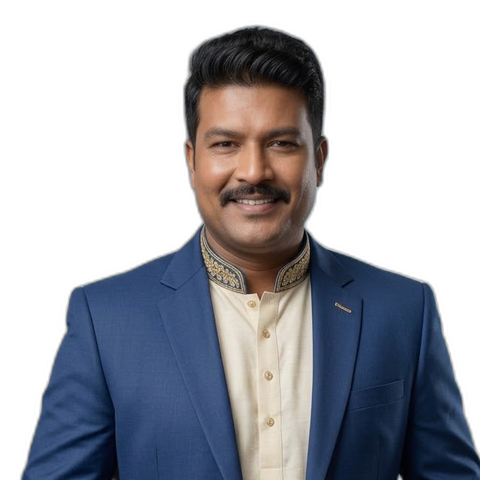
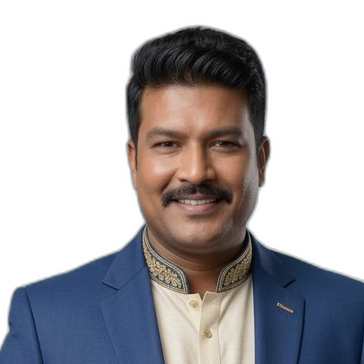
Drop the name from the header bar; re-crop the AI assistant photo
- PortalHeaderBar: the top bar showed the signed-in user's own full name
  next to their avatar on every screen - dropped it, avatar alone (still
  tappable into Profile, where the name is already shown prominently)
  matches how the rest of the app's headers work.
- assets/sagar-assistant.png: the source photo was a full 480x480 square
  with the face only filling its top ~40% (suit/chest below), so even
  after shrinking the chat bubble itself, the face still read as small
  and distant inside it. Re-cropped tight to a head-and-shoulders
  framing so the face actually fills the circle.

diff --git a/lib/components/PortalHeaderBar.tsx b/lib/components/PortalHeaderBar.tsx
@@ -35,14 +35,7 @@ export function PortalHeaderBar({ title }: { title?: string }) {
       <Text className="flex-1 text-xl font-bold text-gray-900" numberOfLines={1}>
         {title ?? ''}
       </Text>
-      <Pressable
-        onPress={() => profileRoute && router.push(profileRoute as never)}
-        hitSlop={8}
-        className="flex-row items-center gap-2"
-      >
-        <Text className="max-w-[140px] text-sm font-medium text-gray-600" numberOfLines={1}>
-          {profile?.full_name ?? ''}
-        </Text>
+      <Pressable onPress={() => profileRoute && router.push(profileRoute as never)} hitSlop={8}>
         <View className="h-9 w-9 items-center justify-center overflow-hidden rounded-full bg-orange-100">
           {profile?.avatar_url ? (
             <Image source={{ uri: profile.avatar_url }} className="h-full w-full" resizeMode="cover" />
